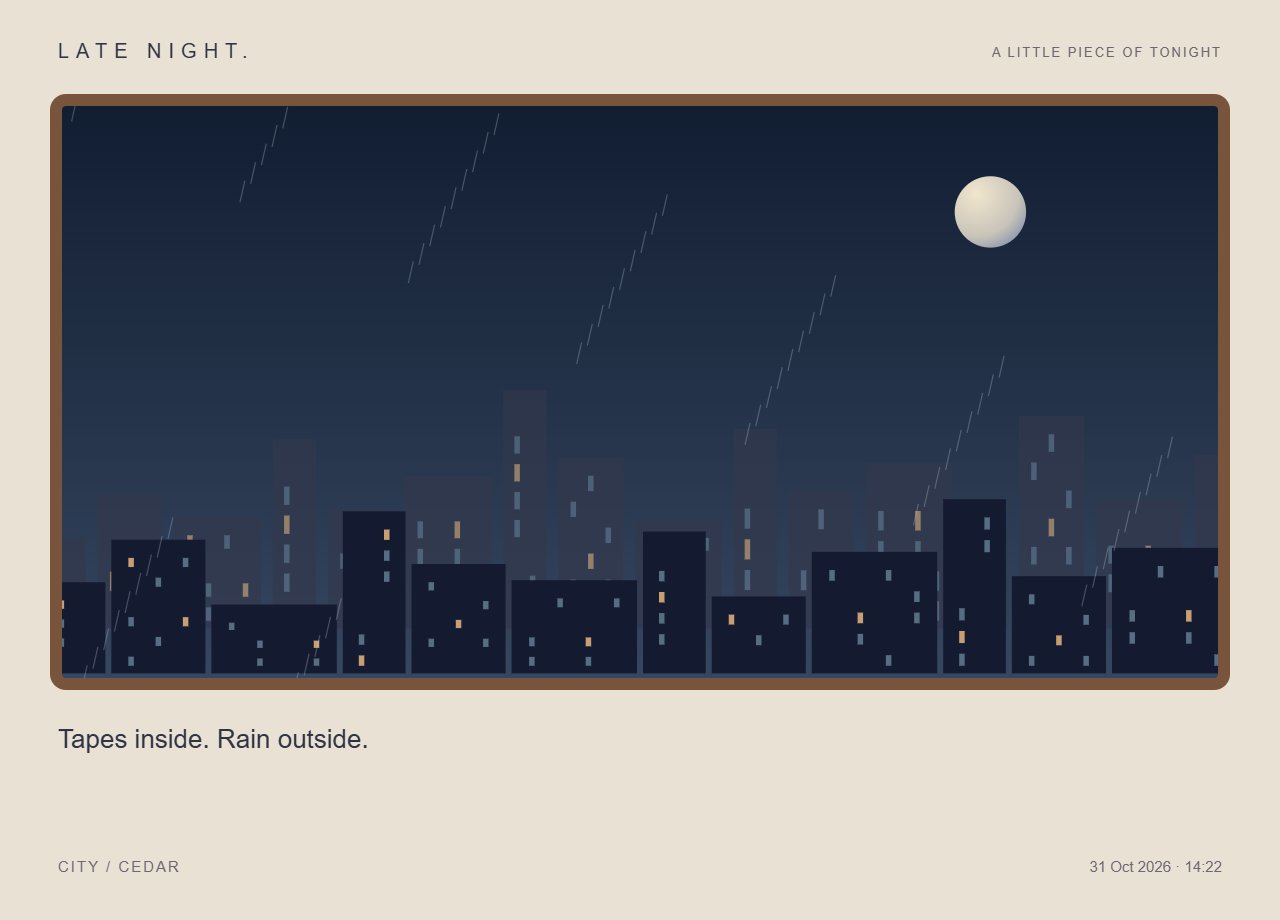
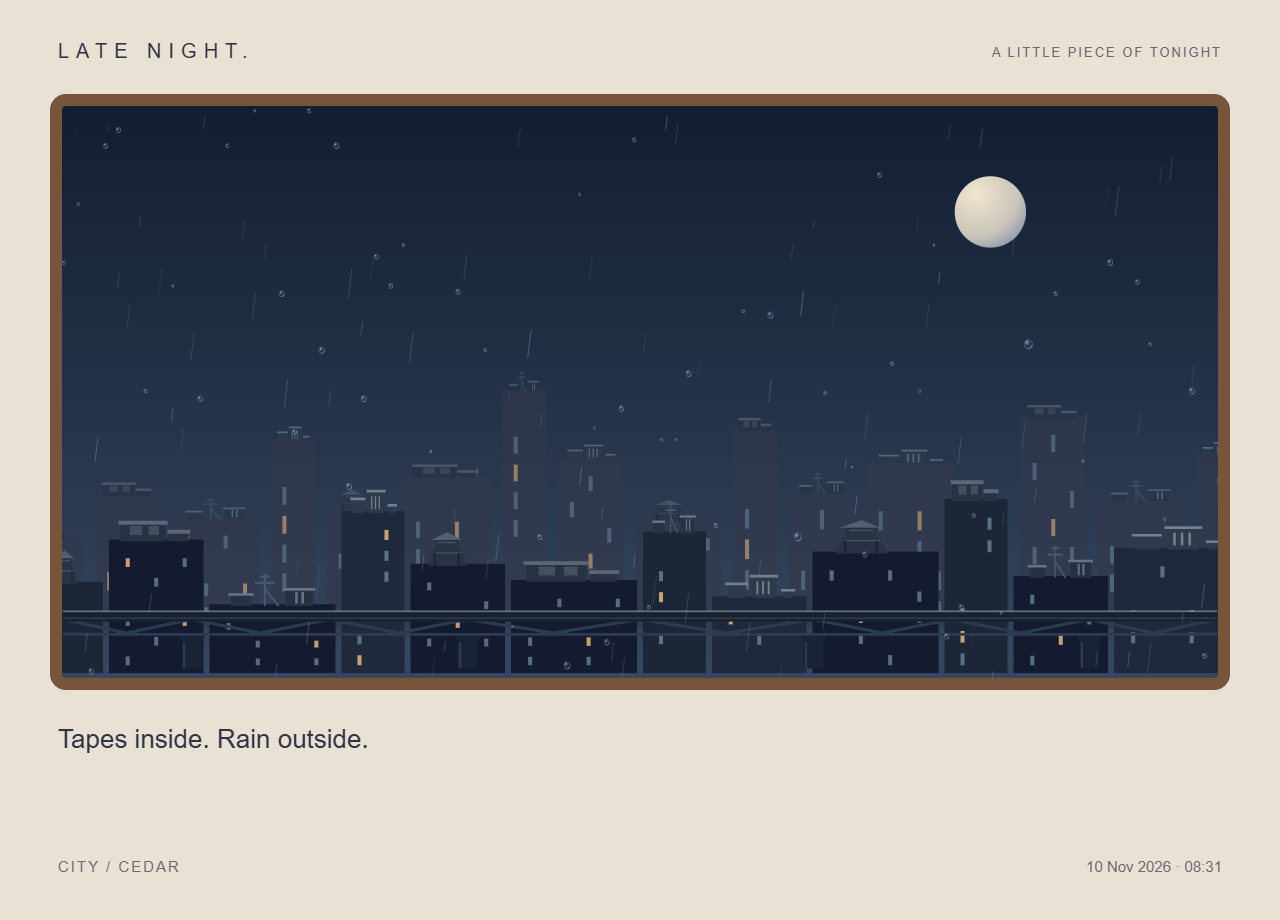
feat: capture rain strength and glass droplets on postcards

diff --git a/app.js b/app.js
@@ -4013,6 +4013,45 @@ function postcardVector(source, attrs = {}) {
   copies.forEach(node => node.removeAttribute("class"));
   return clone;
 }
+function makePostcardRain() {
+  const level = RAIN_LEVELS[rainLevel];
+  const rain = postcardElement("g", {"data-rain":rainLevel});
+  const defs = postcardElement("defs");
+  const lens = postcardElement("radialGradient", {id:"postcard-drop-lens",cx:".33",cy:".28",r:".74"});
+  lens.append(
+    postcardElement("stop", {"stop-color":"#e5f1ff","stop-opacity":.65}),
+    postcardElement("stop", {offset:.38,"stop-color":"#a7c9e4","stop-opacity":.16}),
+    postcardElement("stop", {offset:.7,"stop-color":"#0f1e30","stop-opacity":.24}),
+    postcardElement("stop", {offset:1,"stop-color":"#b7daf4","stop-opacity":.48}),
+  );
+  defs.append(lens);
+  rain.append(defs);
+
+  const streaks = postcardElement("g", {stroke:"#bedcff","stroke-linecap":"round",fill:"none"});
+  const streakCount = Math.round(780 / level.spacing);
+  for (let index = 0; index < streakCount; index++) {
+    const x = (index * 173 + 21) % 1200;
+    const y = (index * 83 + index ** 2 * 11 + 29) % 600;
+    const length = (9 + index * 11 % 23) * level.speed;
+    streaks.append(postcardElement("path", {
+      d:`M${x} ${y}l${-length * .12} ${length}`,
+      "stroke-width":.65 + index % 4 * .16,
+      opacity:level.alpha * (.1 + index % 5 * .035),
+    }));
+  }
+  rain.append(streaks);
+
+  const beads = postcardElement("g", {fill:"url(#postcard-drop-lens)",stroke:"#c4e0f4","stroke-opacity":.26,"stroke-width":.55});
+  const beadCount = Math.round(2100 / level.glass);
+  for (let index = 0; index < beadCount; index++) {
+    const x = (index * 293 + 51) % 1200;
+    const y = (index * 137 + index ** 2 * 7 + 47) % 600;
+    const radius = .8 + (index * 11 % 19) / 9 + (index % 9 === 0 ? 1.5 : 0);
+    beads.append(postcardElement("ellipse", {cx:x,cy:y,rx:radius,ry:radius * 1.18}));
+  }
+  rain.append(beads);
+  return rain;
+}
 function capturePostcard() {
   const sky = getComputedStyle(windowView);
   const art = postcardElement("svg", {viewBox:"0 0 1200 600",width:1200,height:600,"data-view":windowScene});
@@ -4049,11 +4088,7 @@ function capturePostcard() {
     art.append(postcardVector(document.querySelector(".sea-water svg"),{x:0,y:450,width:1200,height:150}));
     art.append(postcardVector(document.querySelector(".coast-view svg"),{x:0,y:282,width:1200,height:318}));
   } else art.append(postcardVector(document.querySelector(windowScene === "garden" ? ".garden-view" : ".cafe-view"),{x:0,y:0,width:1200,height:600}));
-  if (isRainScene()) {
-    const rain = postcardElement("g",{stroke:"#bacbd9","stroke-width":1.2,opacity:.3});
-    for (let i=0;i<65;i++) { const x=(i*173+21)%1200,y=(i*83)%600; rain.append(postcardElement("path",{d:`M${x} ${y}l-5 22`})); }
-    art.append(rain);
-  }
+  if (isRainScene()) art.append(makePostcardRain());
   postcardScene = {art,view:windowScene,finish:roomFinish,mood:document.body.dataset.mood,time:windowClock.textContent,date:new Date()};
   paintPostcard();
 }

diff --git a/index.html b/index.html
@@ -924,6 +924,6 @@
       <p id="postcard-note" role="status">Made here. Kept on your device.</p>
     </div></div>
   </dialog>
-  <script src="app.js?v=cfbc8821f439"></script>
+  <script src="app.js?v=053a4b169b3b"></script>
 </body>
 </html>

diff --git a/README.md b/README.md
@@ -84,7 +84,8 @@ The selected tape is still managed separately by the tape shelf.
 Open **little extras → ✉ postcard** above the window, including in Quiet room. A small workshop
 captures an illustration of the current view using the room's own vectors:
 city lights, mountains, the coast, the café or the midnight garden, with the
-current sky, moon, rain and frame finish.
+current sky, moon, rain and frame finish. Drops bead on the glass, and the
+streaks get denser from drizzle to downpour.
 
 Add an optional caption of up to 80 characters, choose **night ink** or **moon
 paper**, and decide whether to **include the time** beside the date. **Keep as
